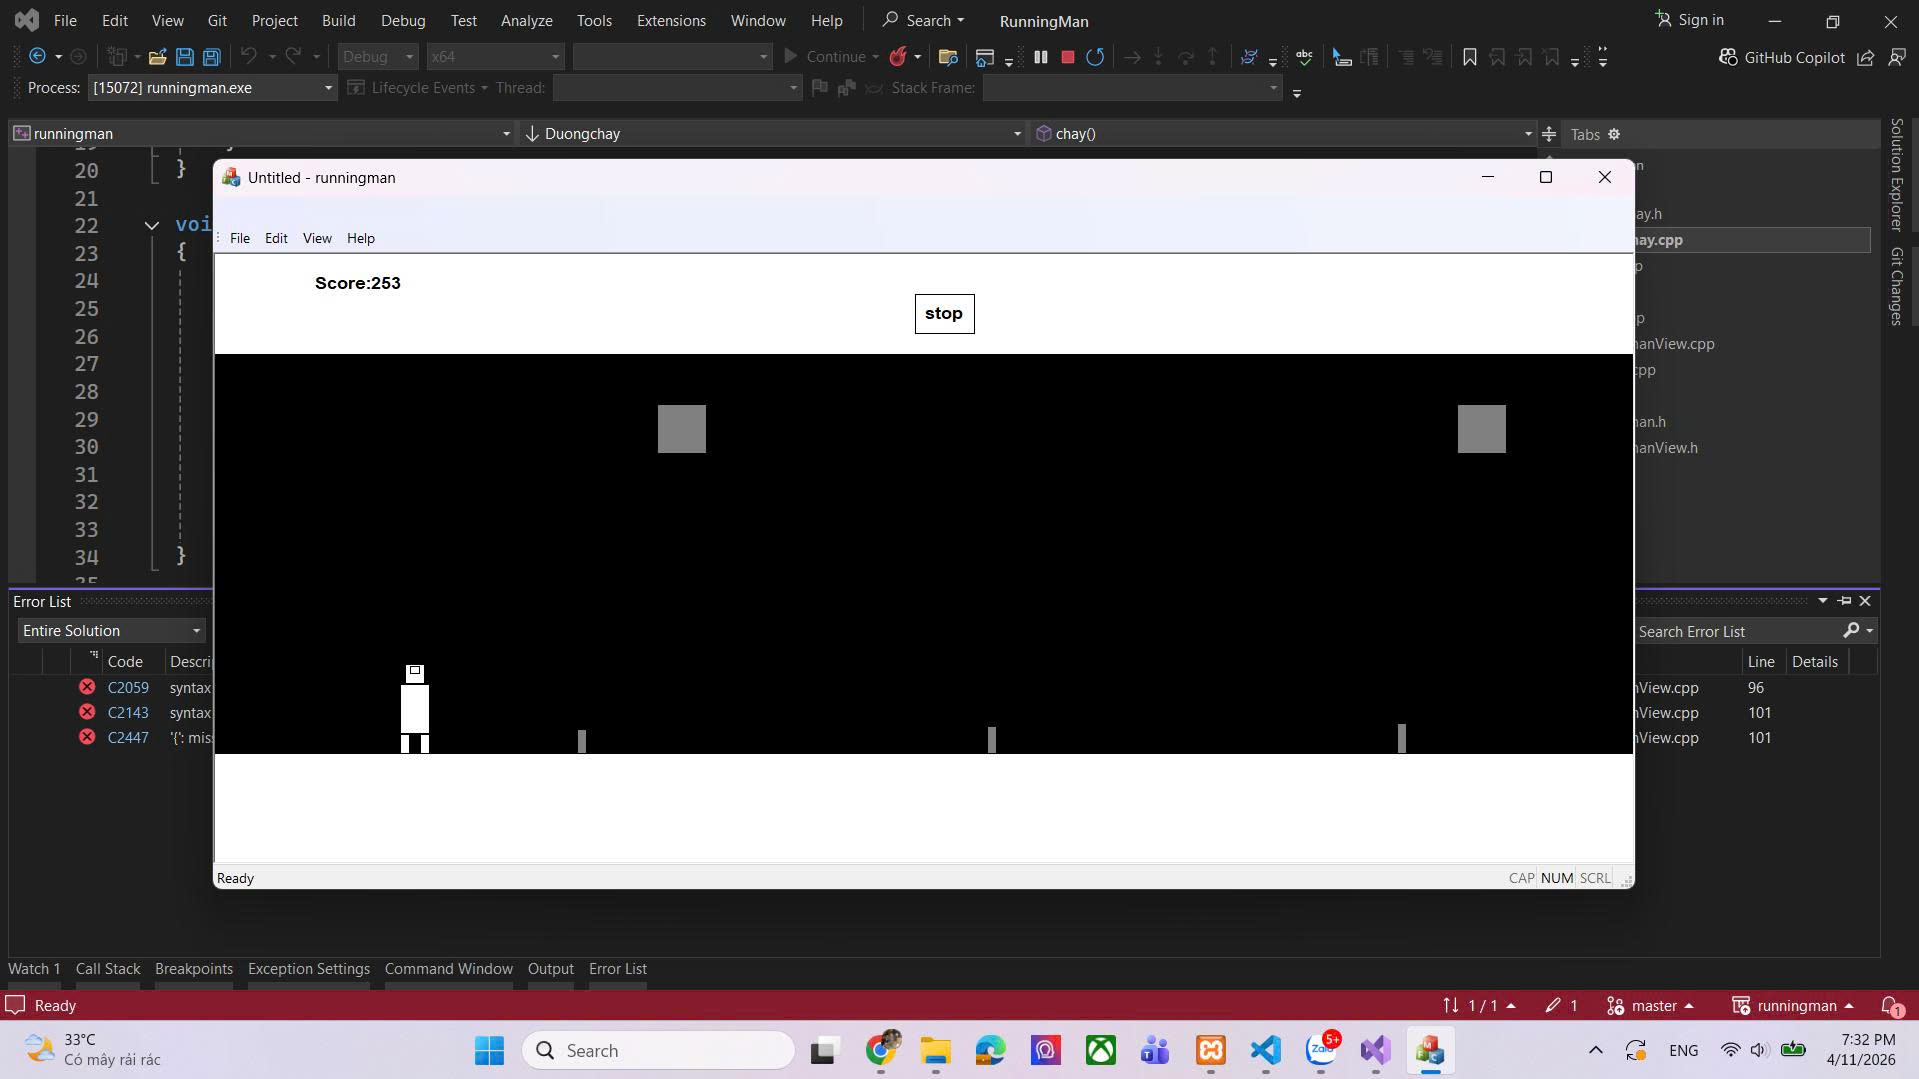
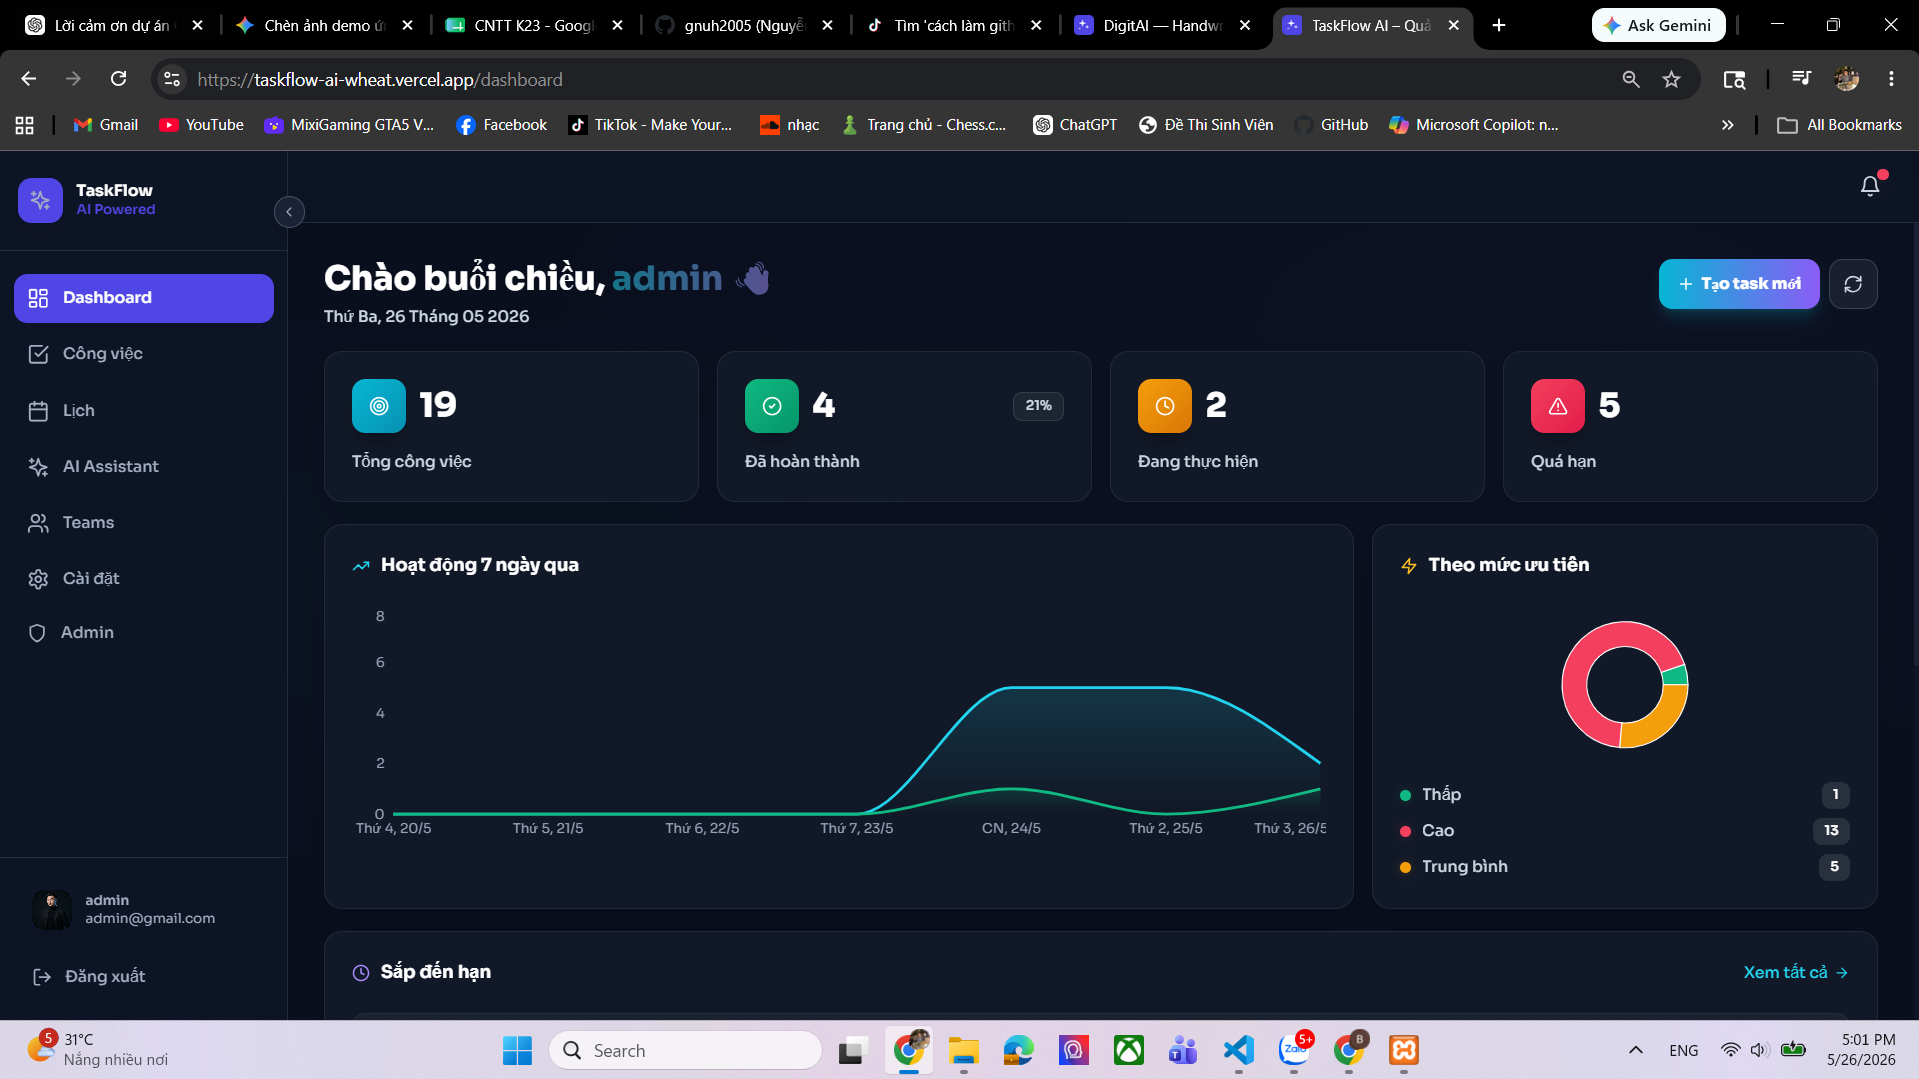
Update project

diff --git a/index.php b/index.php
@@ -112,7 +112,7 @@ $initials = mb_substr( $initials, 0, 3 );
       <h3>Kỹ năng lập trình &amp; Công cụ</h3>
       <div class="chip-wrap">
         <?php
-        $skills = [ 'HTML5', 'CSS3', 'JavaScript', 'Git', 'GitHub', 'Responsive Design', 'WordPress', 'VSCode' ];
+        $skills = [ 'HTML5', 'CSS3', 'JavaScript', 'React', 'TypeScript', 'Node.js', 'Python', 'MongoDB', 'TensorFlow', 'OpenCV', 'Flask', 'Git', 'GitHub', 'Responsive Design', 'WordPress', 'VSCode' ];
         foreach ( $skills as $skill ) {
             echo '<span class="chip">' . esc_html( $skill ) . '</span>';
         }
@@ -169,19 +169,17 @@ $initials = mb_substr( $initials, 0, 3 );
     $projects = [
   [
     'img'   => get_template_directory_uri() . '/images/project1.jpg',
-    'chips' => [ 'HTML', 'CSS', 'JS', 'Game Design', 'PHP' ],
-    'name'  => 'Environment Game',
-    'desc'  => 'Dự án xây dựng một mini game giáo dục nhằm nâng cao ý thức bảo vệ môi trường cho người chơi thông qua các hoạt động tương tác như phân loại rác, thu gom rác thải và xử lý ô nhiễm.',
-    'link'  => 'https://github.com/gnuh2005/environment-game',
+    'chips' => [ 'React', 'Node.js', 'MongoDB', 'AI' ],
+    'name'  => 'TaskFlow AI',
+    'desc'  => 'TaskFlow AI là một ứng dụng quản lý tác vụ hiện đại được xây dựng trên stack MERN và tích hợp với các tính năng AI. Người dùng có thể tạo, quản lý, lọc và ưu tiên công việc thông qua giao diện bảng điều khiển sạch. Hệ thống bao gồm xác thực JWT, hỗ trợ tác vụ thông minh từ AI, bảng điều khiển phân tích, quản lý tác vụ kéo-thả, và giao diện phản ứng.',
+    'link'  => 'https://github.com/thiendeptrai29/taskflow-ai',
   ],
   [
     'img'   => get_template_directory_uri() . '/images/project2.jpg',
-    'chips' => [ 'C++', 'Game 2D' ],
-    'name'  => 'Running Man',
-    'desc'  => 'Dự án xây dựng một trò chơi dạng endless runner (chạy vô tận) lấy cảm hứng từ mini game khi mất mạng trên trình duyệt Chrome Dino của Google. Trong game, người chơi điều khiển nhân vật chạy liên tục và phải né các chướng ngại vật bằng cách nhảy hoặc cúi xuống.
-
-Game được thiết kế nhằm rèn luyện phản xạ nhanh, tăng độ tập trung và mang tính giải trí cao với cơ chế tăng tốc độ theo thời gian.',
-    'link'  => 'https://github.com/gnuh2005/runningman',
+    'chips' => [ 'Python', 'TensorFlow', 'OpenCV', 'CNN' ],
+    'name'  => 'Handwritten Character Recognition System',
+    'desc'  => 'Dự án sử dụng Mạng Lưới Thần Kinh Tích Chập (CNN) để nhận dạng các chữ số viết tay và ký tự chữ hoa từ hình ảnh được tải lên trong thời gian thực. Hệ thống bao gồm xử lý hình ảnh tiên tiến, giảm nhiễu, phát hiện đường viền, phân đoạn ký tự, và dự đoán học sâu với độ chính xác cao.',
+    'link'  => 'https://github.com/handwritten-recognition/handwritten-recognition',
   ],
   [
     'img'   => get_template_directory_uri() . '/images/project3.jpg',

diff --git a/README.md b/README.md
@@ -82,8 +82,8 @@ cp -r portfolio-theme /path/to/wordpress/wp-content/themes/
 
 | Dự án | Công nghệ | Mô tả |
 |---|---|---|
-| **Environment Game** | HTML, CSS, JS, PHP | Mini game giáo dục phân loại rác |
-| **Running Man** | C++, Game 2D | Endless runner lấy cảm hứng Chrome Dino |
+| **TaskFlow AI** | React, Node.js, MongoDB, AI | Ứng dụng quản lý tác vụ được hỗ trợ bởi AI |
+| **Handwritten Character Recognition System** | Python, TensorFlow, OpenCV, CNN | Hệ thống nhận dạng ký tự viết tay sử dụng CNN |
 | **Snake Game** | C++, SDL2.0 | Snake game 2 player vs AI |
 
 ---
